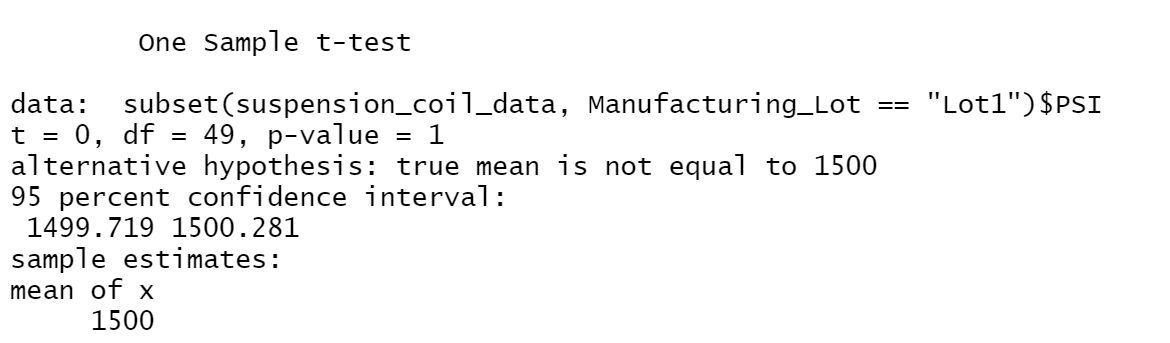
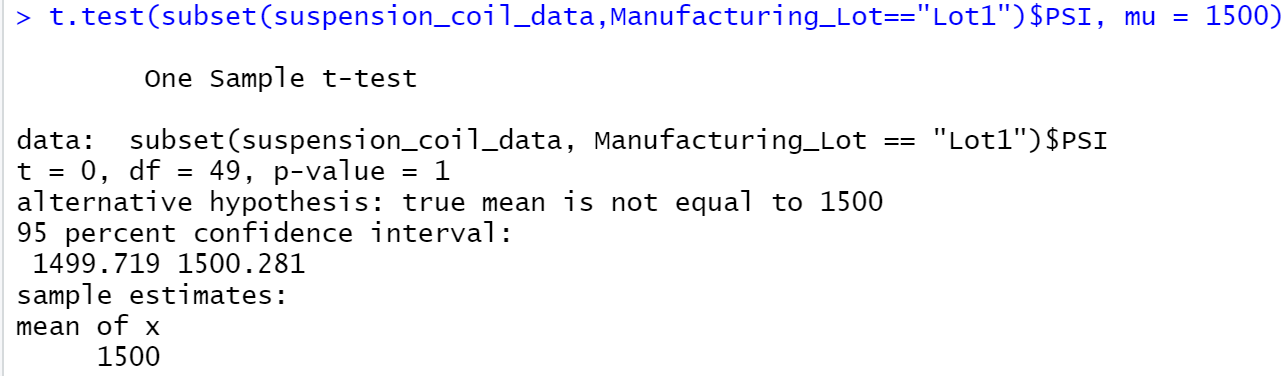
readme.md updated

Changed region(s): [[0.0, 0.2624, 0.9538, 0.9913], [0.0, 0.0, 1.0, 0.1458], [0.0923, 0.1749, 0.3385, 0.2332]]

diff --git a/README.md b/README.md
@@ -1,1 +1,53 @@
 # MechaCar_Statistical_Analysis
+
+<SUMMARY>
+
+
+## Linear Regression to Predict MPG
+
+![THIS IS AN IMAGE]
+
+- In the summary output, each Pr(>|t|) value represents the probability that each coefficient contributes a random amount of variance to the linear model. According to our results, vehicle weight and horsepower (as well as intercept) are statistically unlikely to provide random amounts of variance to the linear model.
+- According to the results, the the multi linear module is:
+'''
+mpg = 6.27 * vehicle_length + 1.25e-3 * vehicle_weigth + 6.88e-2 * spoiler_angle -3.41 * AWD + 3.55 * ground_clearance - 1.04e+2
+
+'''
+Therefore, the slope is not zero.
+- R-squared is 0.71 so 71% of the variations in mpg can be explained by changes in the vehicle length, the vehicle weight, the spoiler angle, the drivetrain and the ground clearance. We can consider the variables as hvaing a strong correlation in our model.
+
+## Summary Statistics on Suspension Coils
+![THIS IS AN IMAGE]
+![THIS IS AN IMAGE]
+
+- The design specifications for the MechaCar suspension coils dictate that the variance of the suspension coils must not exceed 100 pounds per square inch. Globally, the PSI is within our scope for all manufactures at 62.3 psi. On the lot level, Lot 1 and Lot 2 are within specs with variances of 0.98 and 7.5 psi, respectively. On the other hand, Lot 3 is out of our scope with a variance of 170.3 psi.
+
+## T-Tests on Suspension Coils
+![lot_summary]
+Assuming our significance level was the common 0.05 percent, at 0.06028, our p-value is above our significance level. Therefore, we do not have sufficient evidence to reject the null hypothesis, and we would state that the two means are statistically similar.
+
+![lot1]
+A review of the results of the T-test for the suspension coils for Lot 1 shows that the mean is not statistically different from the population's, and the p-value is 1, not low enough for us to reject the null hypothesis.
+
+![lot2]
+A review of the results of the T-test for the suspension coils for Lot 2 shows that the mean is not statistically different from the population's, and the p-value is 0.6072, not low enough for us to reject the null hypothesis.
+
+![lot3]
+A review of the results of the T-test for the suspension coils for Lot 3 shows that they are slightly statistically different from the population mean, and the p-value is just low enough (0.0417) for us to reject the null hypothesis. This lot may be need to be discarded, or at least more closely evaluated.
+
+## Study Design: MechaCar vs Competition
+
+With gas-prices skyrocketing to $5 per gallon and no end in sight, understandably, consumers who commute from outside-city limits are concerned about how much mileage their vehicles are getting per gallon. Many are looking to upgrade their vehicles to something more eco-friendly, that also saves them a few bucks each time they fill up. Before making the investment, MechaCar wants to provide its potential customers with the statistics on how the company’s vehicles highway fuel efficiency fares against competitor’s
+
+### Metrics to Test
+To perform our study, we will need to evaluate gas prices (current and historical) as well as combined fuel economy or mpg.  Additionally, we should compare a vehicle’s cylinder numbers to fuel efficiency performance. 
+
+### Null and Alternate Hypothesis
+H0: MechaCar prototypes' average fuel efficiency is not like competitor's vehicles in the same vehicle class.
+ Ha: MechaCar prototypes' average fuel efficiency is statistically above or below that of competitor vehicles.
+
+### Statistical Test Used
+For this study, we would use multiple linear regression because it tests how much variance in the dependent variable is accounted for in a linear combination of independent variables. 
+
+### Data Needed
+To analyze fuel economy, the city and highway fuel economies must first be combined into one variable (mpg). According to the EPA, combined fuel economy is an average calculated by weighing the City value by 55% and the Highway value by 45%. We will need to gather these metrics for each manufacturing company included in our comparative study. Additionally, we will need to group these by cylinder-size. 
